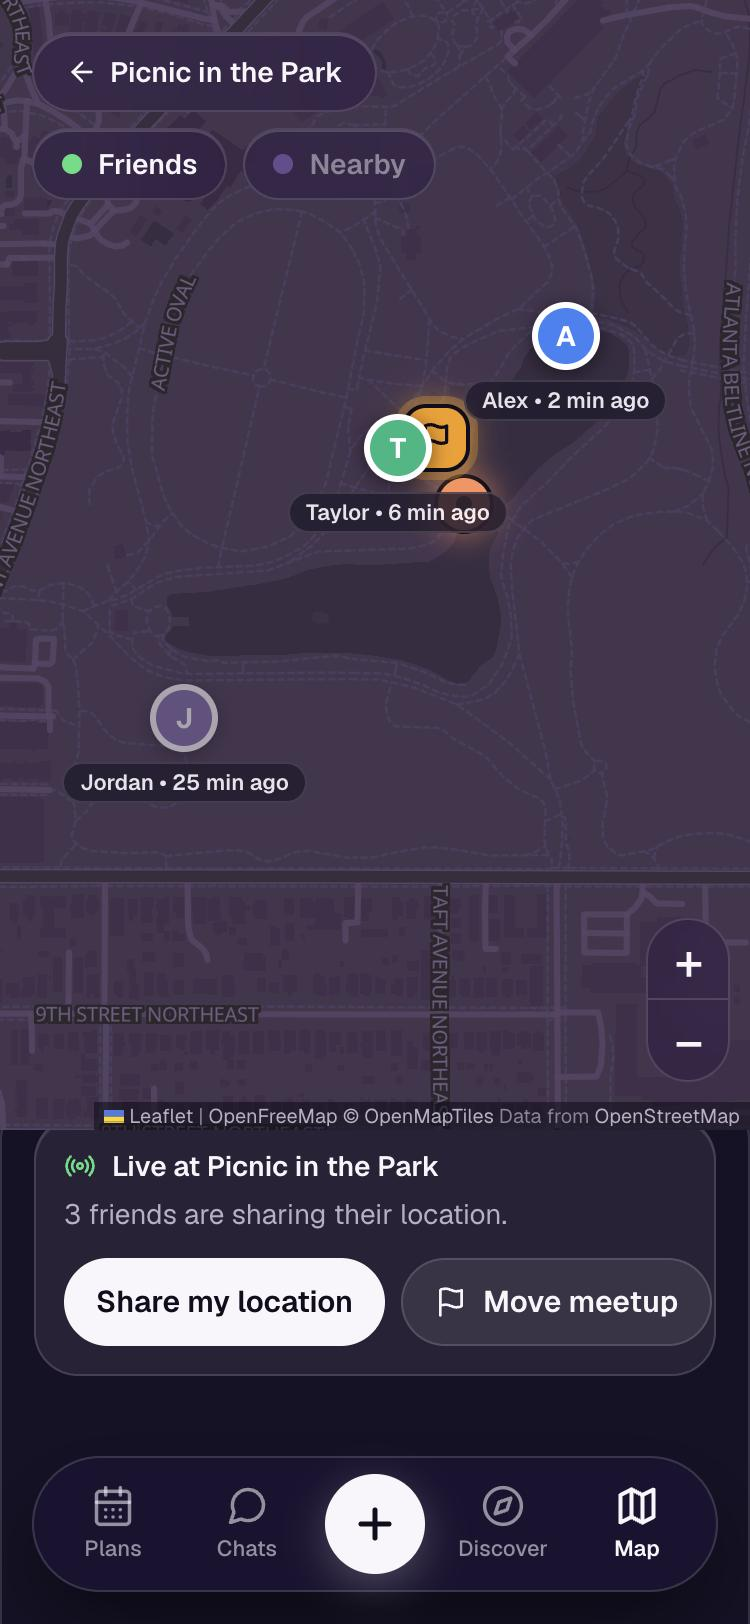
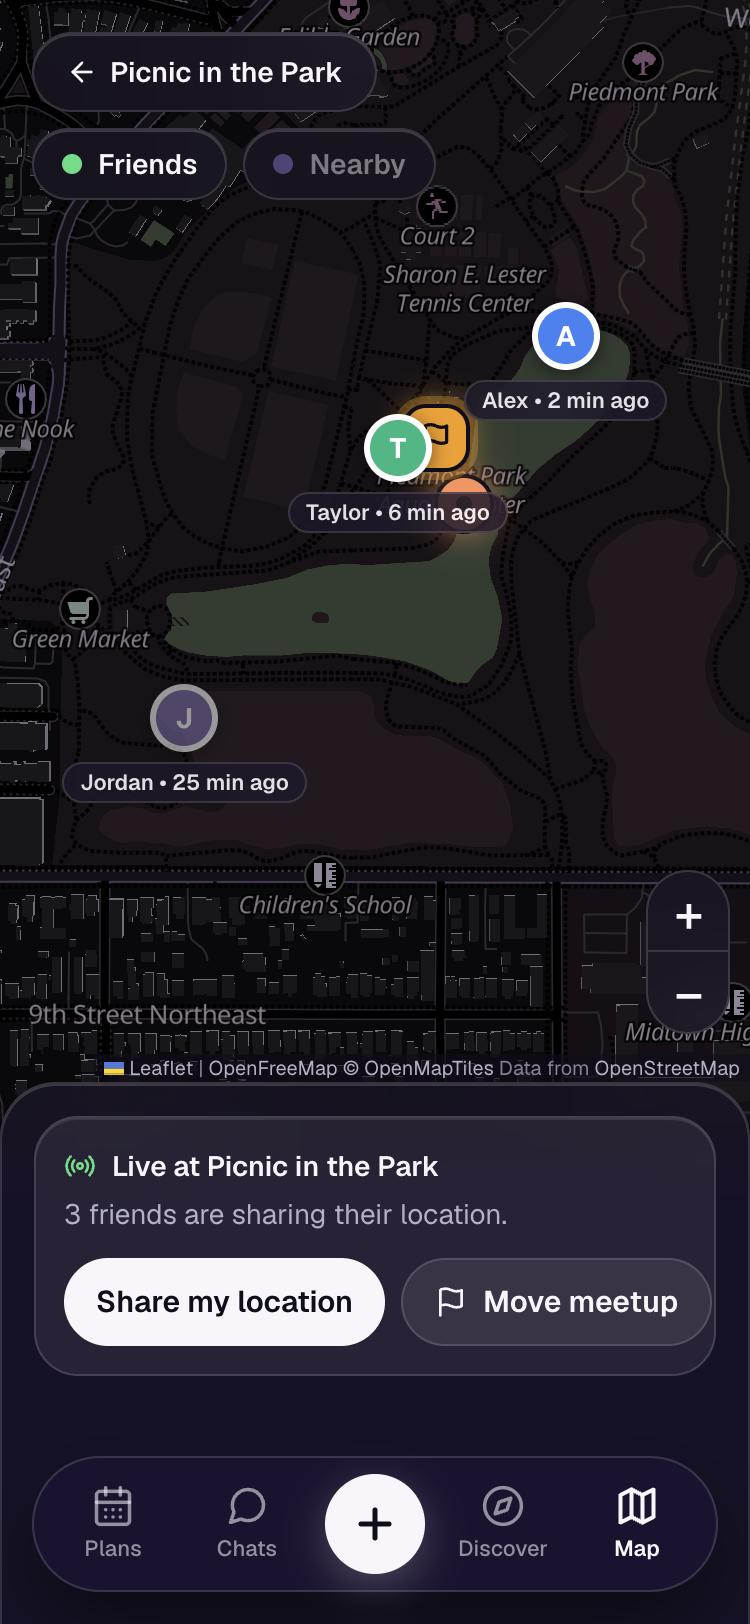
Bring back buildings and landmarks on the map, and stop the map covering the top of the live card

diff --git a/src/components/map/MapCanvas.js b/src/components/map/MapCanvas.js
@@ -7,18 +7,19 @@ import 'maplibre-gl/dist/maplibre-gl.css';
 import '@maplibre/maplibre-gl-leaflet';
 import './map.css';
 
-// Map tiles. By default, OpenFreeMap's Fiord style, tinted plum in map.css:
+// Map tiles. By default, OpenFreeMap's Liberty style, turned dark in map.css:
 // free, keyless and with no view limit (openfreemap.org), drawn as vector
 // tiles by MapLibre inside Leaflet, so labels stay sharp at every zoom. Its
 // required credit (OpenFreeMap, OpenMapTiles, OpenStreetMap) comes with the
-// style. Their "dark" style was too close to black for roads to read.
+// style. Liberty draws buildings, landmarks and park names, which friends use
+// to find each other; the darker Fiord and "dark" styles leave those out.
 // CARTO's dark basemap was the first choice, but as of October 2026 it shows
 // "API key required" without a key, and the map stays keyless so a fresh
 // clone runs as it is. REACT_APP_MAP_TILE_URL (with REACT_APP_MAP_ATTRIBUTION,
 // the provider's required credit) swaps in any raster tile URL instead.
 const CUSTOM_TILES = process.env.REACT_APP_MAP_TILE_URL;
 const CUSTOM_ATTRIBUTION = process.env.REACT_APP_MAP_ATTRIBUTION || '';
-const STYLE_URL = 'https://tiles.openfreemap.org/styles/fiord';
+const STYLE_URL = 'https://tiles.openfreemap.org/styles/liberty';
 // Street level; closer than this, raster tiles run out
 const MAX_ZOOM = 19;
 

diff --git a/src/components/map/map.css b/src/components/map/map.css
@@ -6,15 +6,12 @@
   font-family: inherit;
 }
 
-/* OpenFreeMap's Fiord style is a dark slate blue. One hue turn brings it to
-   the app's plum and a little dimming lets the pins and glass chips lead.
-   Only the default vector map gets this; custom raster tiles show as-is. */
-.leaflet-gl-layer {
-  filter: hue-rotate(40deg) brightness(0.72);
-}
-
-/* Without WebGL: OpenStreetMap's light tiles turned dark (dark land, light
-   roads) and dimmed toward the same plum */
+/* OpenFreeMap's Liberty style and, without WebGL, OpenStreetMap's tiles are
+   both light maps. Inverting turns them dark (dark land, light roads and
+   labels), the hue turn puts colors back where they were, and the rest dims
+   them toward the app's plum so the pins and glass chips lead. Custom raster
+   tiles show as-is. */
+.leaflet-gl-layer,
 .eb-tiles-fallback {
   filter: invert(1) hue-rotate(180deg) saturate(0.4) brightness(0.8) sepia(0.3) hue-rotate(230deg);
 }
@@ -160,4 +157,10 @@
   transform: translate(-50%, -50%);
   pointer-events: none;
   z-index: 1100;
+}
+
+/* The map screen's bottom sheet overlaps the map by 1.5rem (Map.js -mt-6),
+   so the zoom buttons and the credit sit that much higher to stay visible */
+.eb-map-under-sheet .leaflet-bottom {
+  bottom: 1.5rem;
 }

diff --git a/src/components/screens/Map.test.js b/src/components/screens/Map.test.js
@@ -103,6 +103,16 @@ describe('Map', () => {
     expect(screen.queryByRole('button', { name: /^Your event:/ })).not.toBeInTheDocument();
   });
 
+  // jsdom can't lay out the page, so this checks the cause: without its own
+  // stacking context, Leaflet's layers (z-index 400-1000) paint over the top
+  // of the bottom sheet that overlaps the map
+  it('keeps the map under the bottom sheet', async () => {
+    renderAt('/map');
+    await pin('Venue: Fox Theatre');
+
+    expect(screen.getByTestId('map').parentElement).toHaveClass('isolate');
+  });
+
   it('clears a selection whose pins are turned off', async () => {
     renderAt('/map');
     fireEvent.click(await pin('Venue: Fox Theatre'));

diff --git a/src/components/map/MapCanvas.test.js b/src/components/map/MapCanvas.test.js
@@ -34,7 +34,7 @@ describe('the map base layer', () => {
     const { L, addBaseLayer } = loadWith({ REACT_APP_MAP_TILE_URL: '' });
     addBaseLayer({});
 
-    expect(L.maplibreGL).toHaveBeenCalledWith({ style: 'https://tiles.openfreemap.org/styles/fiord' });
+    expect(L.maplibreGL).toHaveBeenCalledWith({ style: 'https://tiles.openfreemap.org/styles/liberty' });
     expect(L.tileLayer).not.toHaveBeenCalled();
   });
 

diff --git a/src/components/screens/Map.js b/src/components/screens/Map.js
@@ -139,7 +139,7 @@ const Map = () => {
 
   return (
     <div className="flex flex-col h-full relative">
-      <div className="relative flex-1 overflow-hidden">
+      <div className="eb-map-under-sheet relative flex-1 overflow-hidden isolate">
         <MapCanvas
           ref={canvasRef}
           pins={pins}

diff --git a/docs/HANDOFF.md b/docs/HANDOFF.md
@@ -47,7 +47,8 @@ Claude and Codex each reviewed the app independently. Findings were checked agai
 - no React Query; the small `freshness.js` rule is deliberate
 - the map's bottom panel is not a Sheet
 - expense and schedule forms close instantly after saving
-- **map tiles:** OpenFreeMap's `fiord` style, drawn by MapLibre, with OSM tiles as the fallback when there's no WebGL. Keyless CARTO tiles show a watermark.
+- **map tiles:** OpenFreeMap's `liberty` style, drawn by MapLibre and turned dark by a CSS filter, with OSM tiles (same filter) as the fallback when there's no WebGL. `fiord` looked darker but dropped buildings and landmarks, and the user missed them. Keyless CARTO tiles show a watermark.
+- **The map screen's sheet overlaps the map by 1.5rem.** The map's wrapper is `isolate` so Leaflet's layers can't paint over the sheet, and `.eb-map-under-sheet` lifts Leaflet's bottom controls clear of it.
 - **No pull to refresh on Chat, Map, the forms or Profile.**
 - **Logging out ends the login on every device.** There's one session version per person, not per device.
 - **No rules about digits or symbols in passwords.** Length and the common-password list are the rule.
